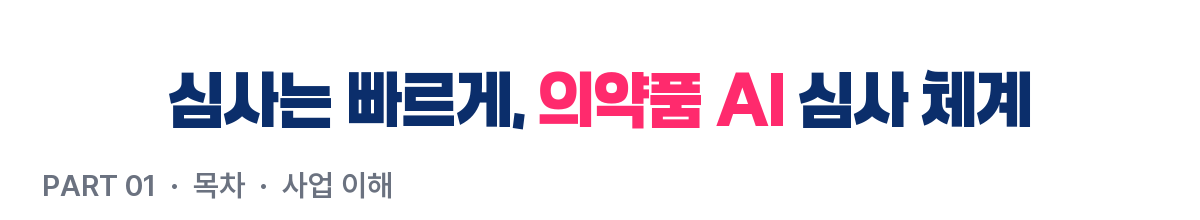
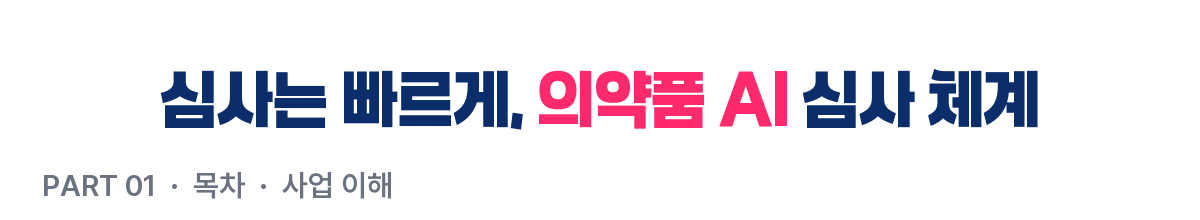
공개본 동기화 — 개발 저장소 b16d3c7

Changed region(s): [[0.4625, 0.3, 0.8633, 0.6], [0.1233, 0.3, 0.4933, 0.6], [0.4625, 0.3, 0.4933, 0.3273]]

diff --git a/engine/vertical.py b/engine/vertical.py
@@ -145,15 +145,24 @@ def use_fonts(title=None, body=None):
     """opts.font_title · font_body → FONT. 모르는 값이면 기본(목록 첫 줄)"""
     t = TITLE0
     TITLE_IS_BOLD[0] = False
+    TITLE_SCALE[0] = 1.0
     if title and title != "gmarket":
         try:
             import fontset
             if title in fontset.TITLES:
                 t = fontset.TITLES[title]
                 TITLE_IS_BOLD[0] = fontset.TITLE_BOLD.get(title, False)
+                TITLE_SCALE[0] = fontset.TITLE_SCALE.get(title, 1.0)
         except Exception:
             pass
     FONT["title"], FONT["body"] = t, VBODY.get(str(body or ""), VBODY[VBODY_DEFAULT])
+    global LH, BL_LH
+    try:
+        import fontset
+        BODY_SCALE[0] = fontset.BODY_SCALE.get(str(body or ""), fontset.BODY_SCALE.get(VBODY_DEFAULT, 1.0))
+    except Exception:
+        BODY_SCALE[0] = 1.0
+    LH, BL_LH = 0.38 * BODY_SCALE[0], 0.42 * BODY_SCALE[0]
     _FONTS.clear()
 
 
@@ -191,6 +200,35 @@ def refont(prs):
         elif "theme" in str(part.partname) and str(part.partname).endswith(".xml"):
             part._blob = re.sub(r'typeface="([^"]+)"', sub, part._blob.decode("utf-8")).encode("utf-8")
     track_title(prs)
+    scale_body(prs)
+
+
+def scale_body(prs):
+    """본문 서체 글자 — 크기 보정(BODY_SCALE) 후, 굵게(강조·굵음 단계) 11pt 이상이면 자간을 조금 좁힌다(fontset.BODY_TRACK)"""
+    try:
+        import fontset
+        track, tmin = fontset.BODY_TRACK, fontset.BODY_TRACK_MIN
+    except Exception:
+        track, tmin = -0.015, 1100
+    faces = FONT["body"][1]
+    bold = set(faces[2:])
+    tags = {f"{{{A}}}rPr", f"{{{A}}}defRPr", f"{{{A}}}endParaRPr"}
+    for part in prs.part.package.iter_parts():
+        el = getattr(part, "_element", None)
+        if el is None:
+            continue
+        for rp in el.iter():
+            if not isinstance(rp.tag, str) or rp.tag not in tags:
+                continue
+            lat = rp.find(f"{{{A}}}latin")
+            ea = rp.find(f"{{{A}}}ea")
+            f = (ea.get("typeface") if ea is not None else None) or (lat.get("typeface") if lat is not None else None)
+            if f not in faces or not rp.get("sz") or rp.get("spc") == "0":   # 뱃지(자간 0 표시)는 크기를 미리 재 맞췄다
+                continue
+            if BODY_SCALE[0] != 1.0:
+                rp.set("sz", str(round(int(rp.get("sz")) * BODY_SCALE[0] / 50) * 50))
+            if f in bold and int(rp.get("sz")) >= tmin:
+                rp.set("spc", str(min(int(rp.get("spc") or 0), round(track * int(rp.get("sz"))))))
 
 
 try:
@@ -200,6 +238,9 @@ except Exception:
 
 
 TITLE_IS_BOLD = [False]   # use_fonts 가 정한다
+TITLE_SCALE = [1.0]       # 제목 서체 크기 보정(fonts.json title.scale) — 저장 직전 제목 글자 크기에 곱한다
+BODY_SCALE = [1.0]        # 본문 서체 크기 보정(fonts.json body.scale) — 글 폭·줄 높이 계산과 저장 직전 본문 글자 크기에 곱한다
+BL_LH = 0.42              # 본문 글머리(9pt) 한 줄 높이(cm) — use_fonts 가 보정만큼 바꾼다
 
 
 def track_title(prs):
@@ -220,6 +261,10 @@ def track_title(prs):
                 continue
             if TITLE_IS_BOLD[0]:
                 rp.set("b", "1")   # 가족 이름 + 굵게로 고르는 제목 서체(엘리스 DX널리체) — 뱃지 글도
+            if rp.get("spc") == "0":   # 뱃지 — 자간 없이 크기를 재 맞췄다(크기 보정도 하지 않는다)
+                continue
+            if TITLE_SCALE[0] != 1.0 and rp.get("sz"):
+                rp.set("sz", str(round(int(rp.get("sz")) * TITLE_SCALE[0] / 50) * 50))   # 서체마다 덩어리감 맞춤(저장 직전 한 번)
             if rp.get("spc") == "0":
                 continue
             sz = int(rp.get("sz") or 1800)
@@ -264,6 +309,8 @@ def font_paths():
 
 
 def text_cm(t, pt, face="a시월구일2"):
+    if _level(face) is not None:
+        pt = pt * BODY_SCALE[0]   # 본문 서체 크기 보정(저장 직전 곱한다) — 줄 수 계산도 같은 크기로
     face = ffile(face)
     f = _FONTS.get((face, pt))
     if f is None and (face, pt) not in _FONTS:
@@ -1568,7 +1615,7 @@ class Build:
                 has_tb = isinstance(tb, dict) and tb.get("cols") and tb.get("rows")
                 if bullets:
                     put_bullets(sh, bullets)
-                    sh.height = Cm(bullet_lines(bullets) * 0.42 + 0.1)
+                    sh.height = Cm(bullet_lines(bullets) * BL_LH + 0.1)
                     top = sh.top + sh.height + Cm(0.25)
                 else:   # 글머리 없이 표만 — 빈 글 상자를 빼고 그 자리에 표
                     top = sh.top
@@ -1630,7 +1677,7 @@ class Build:
                 sh = s.shapes[-1]
                 put_bullets(sh, bullets)
                 sh.top = Cm(after_bar + fig_height(fd[0], fd[1], W) + 0.35)
-                sh.height = Cm(bullet_lines(bullets) * 0.42 * (FW / W if W else 1) + 0.1)
+                sh.height = Cm(bullet_lines(bullets) * BL_LH * (FW / W if W else 1) + 0.1)
                 if W:
                     sh.left, sh.width = Cm(BODY_T + dx), Cm(W)
 
@@ -1828,7 +1875,7 @@ def point_number(sh, col):
 def fit_one_line(sh, text, width_cm, start=18, low=12):
     """제목이 한 줄에 들어가게 글자 크기를 줄인다(G마켓 산스 굵게 — 글꼴이 없으면 글자 종류로 어림)"""
     pt = start
-    while pt > low and text_cm(text, pt, TITLE0[1]) * 1.04 > width_cm:
+    while pt > low and text_cm(text, pt * TITLE_SCALE[0], TITLE0[1]) * 1.04 > width_cm:
         pt -= 1
     for r in sh.text_frame.paragraphs[0].runs:
         r.font.size = Pt(pt)
@@ -1913,7 +1960,7 @@ def block_height(blk, W=None):
         h = 0.91 + (0.64 if str(blk.get("small") or "").strip() else 0) + (0.96 if str(blk.get("bar") or "").strip() else 0)
         h += fig_height(fd[0], fd[1], W) + 0.2
         bl = [str(b) for b in (blk.get("bullets") or []) if str(b).strip()]
-        return h + (0.15 + bullet_lines(bl) * 0.42 * (FW / W if W else 1) + 0.1 if bl else 0)
+        return h + (0.15 + bullet_lines(bl) * BL_LH * (FW / W if W else 1) + 0.1 if bl else 0)
     if W:   # 2단 표 — 소제목 + 표(칸이 좁아 줄바꿈이 는다)
         tb = blk.get("table")
         return 0.91 + (table_height(tb, W) if isinstance(tb, dict) and tb.get("rows") else 0)
@@ -1921,7 +1968,7 @@ def block_height(blk, W=None):
     bl = [str(b) for b in (blk.get("bullets") or []) if str(b).strip()]
     tb = blk.get("table")
     has_tb = isinstance(tb, dict) and tb.get("rows")
-    h += (bullet_lines(bl) * 0.42 + 0.1 + (0.25 if has_tb else 0)) if bl else 0
+    h += (bullet_lines(bl) * BL_LH + 0.1 + (0.25 if has_tb else 0)) if bl else 0
     if has_tb:
         h += table_height(tb, 14.9)
     return h
@@ -2100,7 +2147,7 @@ def table_height(tb, total):
     h = 0.62
     for r in rows:
         lines = max([1] + [math.ceil(text_cm(v, 8.5) / max(0.5, ws[i] - 0.3)) for i, v in enumerate(r)])
-        h += 0.62 if lines == 1 else 0.62 + (lines - 1) * 0.36
+        h += 0.62 if lines == 1 else 0.62 + (lines - 1) * 0.36 * BODY_SCALE[0]
     return h
 
 
@@ -2151,7 +2198,7 @@ FIG_KINDS = ("concept", "hub", "photo", "compare", "process", "cards", "rows", "
 FIG_NAMES = {"개선", "개선 내용", "곁 조직", "구분", "기간", "기대효과 내용", "기대효과 바탕", "기대효과 이름", "기둥 내용", "기둥 머리", "내용", "단계", "단계 설명", "단계 원", "단계 제목", "마일스톤", "마일스톤 이름", "막대", "목표", "바탕", "사진", "사진 글", "사진 바탕", "사진 설명", "사진 자리", "아이콘", "요소", "일정 머리", "전략 내용", "전략 바탕", "전략 번호", "지표", "총괄", "층 바탕", "층 이름", "카드 내용", "카드 머리", "칸", "팀", "팀 역할", "허브 노드", "허브 중심", "허브 테", "현재", "현재 내용", "화살표", "활동"}   # 도식이 그리는 도형 이름(정렬 검사에서 안쪽 칸을 가려낸다)
 FW = BODY_G + 15.0 - BODY_T   # 도식 폭(블록 안 글 시작선 T ~ 오른쪽 끝)
 LINE = "D3D7DE"
-LH = 0.38                     # 8.5~9pt 한 줄 높이(cm)
+LH = 0.38                     # 8.5~9pt 한 줄 높이(cm) — use_fonts 가 본문 서체 크기 보정만큼 바꾼다
 
 
 def _esc(t):

diff --git a/engine/fontset.py b/engine/fontset.py
@@ -11,7 +11,11 @@ import osdep
 # 목록은 fonts/fonts.json(웹의 서체 고르기도 같은 파일을 읽는다) — 첫 줄이 기본
 _LIST = json.load(open(os.path.join(os.path.dirname(os.path.abspath(__file__)), "fonts", "fonts.json"), encoding="utf-8"))
 TITLES = {x["id"]: (x["name"], x["face"], x["file"]) for x in _LIST["title"]}            # id: (보이는 이름, 서체 이름, 파일)
-TITLE_BOLD = {x["id"]: bool(x.get("bold")) for x in _LIST["title"]}   # 가족 이름 + 굵게 속성으로 고르는 제목 서체(엘리스 DX널리체)
+TITLE_BOLD = {x["id"]: bool(x.get("bold")) for x in _LIST["title"]}
+TITLE_SCALE = {x["id"]: float(x.get("scale") or 1.0) for x in _LIST["title"]}
+BODY_SCALE = {x["id"]: float(x.get("scale") or 1.0) for x in _LIST["body"]}   # 본문 서체 크기 보정(덩어리감 맞춤)
+BODY_TRACK = -0.015   # 본문 서체를 굵게(강조·굵음) 크게(11pt 이상) 쓴 글자의 자간 — 사용자 2026-10-14 "본문도 볼드로 크게 사용된 폰트는 자간을 조금"
+BODY_TRACK_MIN = 1100   # 제목 서체 크기 보정(덩어리감 맞춤)   # 가족 이름 + 굵게 속성으로 고르는 제목 서체(엘리스 DX널리체)
 BODIES = {x["id"]: (x["name"], tuple(x["faces"]), tuple(x["files"]) if x.get("files") else None) for x in _LIST["body"]}   # id: (보이는 이름, 4단계, 파일들)
 DEFAULT_TITLE, DEFAULT_BODY = _LIST["title"][0]["id"], _LIST["body"][0]["id"]
 ASTA = ("Asta Sans Light", "Asta Sans Medium", "Asta Sans SemiBold", "Asta Sans ExtraBold")
@@ -45,7 +49,8 @@ def pick(title=None, body=None):
 
 TITLE_ID, BODY_ID, KEY_FONT, FACES, NAME = pick(os.environ.get("PD_FONT_TITLE"), os.environ.get("PD_FONT_BODY"))
 LIGHT, BODY, SEMI, BOLD = FACES
-KEY_BOLD = TITLE_BOLD.get(TITLE_ID, False)   # 제목 서체를 입힐 때 굵게도 켠다
+KEY_BOLD = TITLE_BOLD.get(TITLE_ID, False)
+KEY_SCALE = TITLE_SCALE.get(TITLE_ID, 1.0)   # 제목 서체를 입힐 때 굵게도 켠다
 
 
 def env(title, body):

diff --git a/scripts/font-previews.py b/scripts/font-previews.py
@@ -18,13 +18,9 @@ def title(t):
     im = Image.new("RGB", (1200, 220), "white")
     d = ImageDraw.Draw(im)
     parts = [("심사는 빠르게, ", NAVY), ("의약품 AI", PINK), (" 심사 체계", NAVY)]
-    size = 64
+    size = round(60 * float(t.get("scale") or 1.0))   # 서체마다 덩어리감 보정(fonts.json title.scale) — 같은 크기로 보이게
     f = ImageFont.truetype(os.path.join(FD, t["file"]), size)
     w = sum(f.getlength(p) for p, _ in parts)
-    while w > 1000 and size > 40:   # 기존 그림처럼 글 폭 약 920px 안
-        size -= 2
-        f = ImageFont.truetype(os.path.join(FD, t["file"]), size)
-        w = sum(f.getlength(p) for p, _ in parts)
     tr = TRACK * size   # 제목 자간(엔진 fontset.TITLE_TRACK 과 같게) — 글자마다 간격을 줄여 찍는다
     w += tr * (sum(len(p) for p, _ in parts) - 1)
     x = (1200 - w) / 2
@@ -43,8 +39,9 @@ def body(b):
     fs = [os.path.join(FD, x) for x in b["files"]]
     rows = [("추진 전략 01 · 표준 연계 허브", fs[3], 38, NAVY, 101), ("기관마다 다른 데이터를 하나의 기준으로", fs[2], 30, BLUE, 161),
             ("흩어진 관제 정보를 한 화면에서 보고 바로 대응합니다.", fs[1], 30, INK, 219), ("※ 2026년 1월 기준 · 출처: 사업계획서", fs[0], 24, GRAY, 272)]
+    k = float(b.get("scale") or 1.0)   # 본문 서체 크기 보정(fonts.json body.scale)
     for t, f, s, c, y in rows:
-        d.text((71, y), t, font=ImageFont.truetype(f, s), fill=c, anchor="ls")
+        d.text((71, y), t, font=ImageFont.truetype(f, round(s * k)), fill=c, anchor="ls")
     im.save(os.path.join(OUT, f"body-{b['id']}.png"))
 
 
